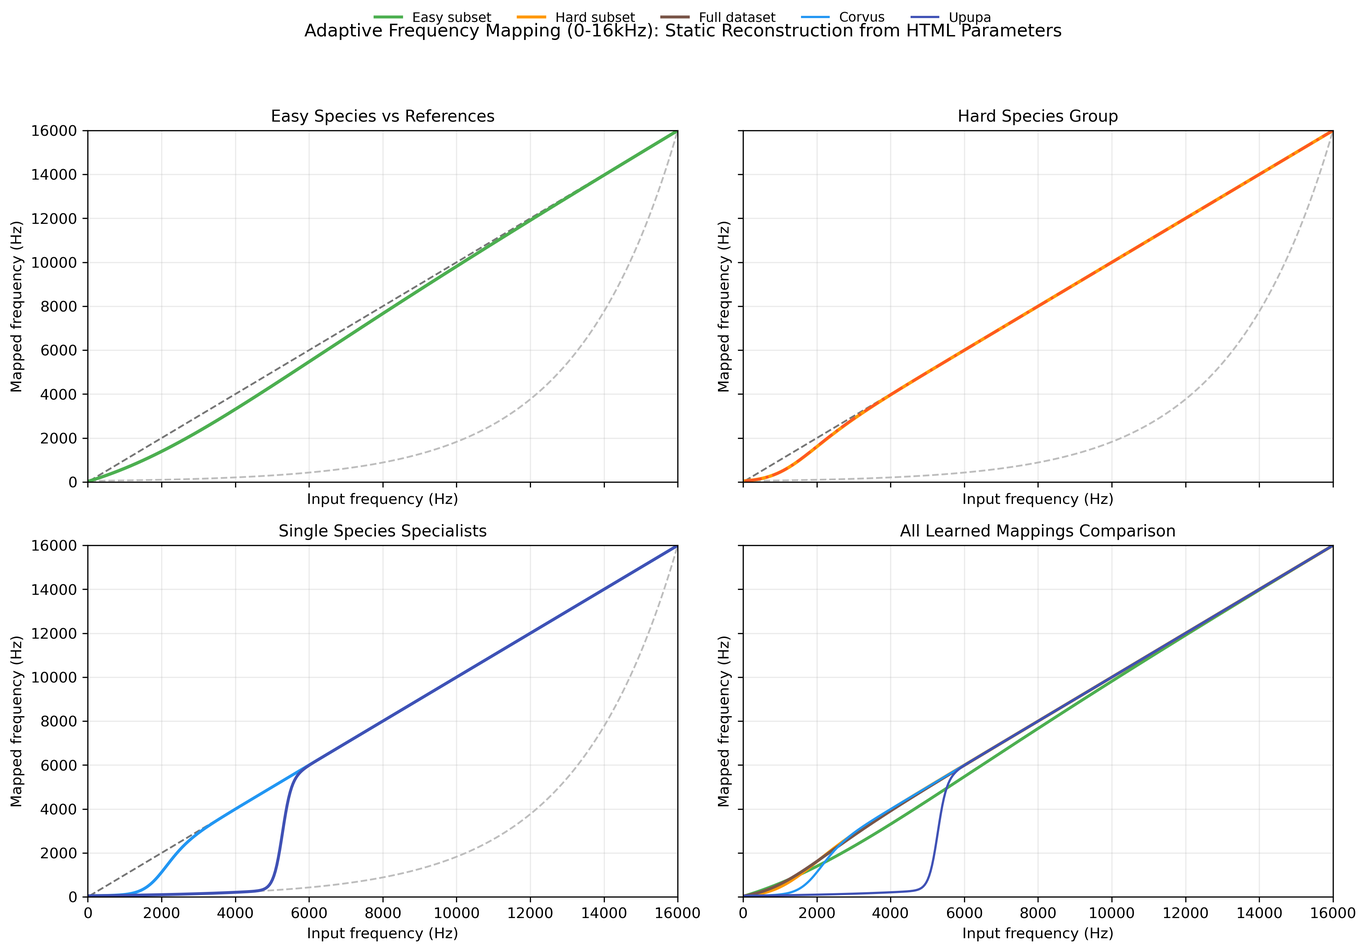
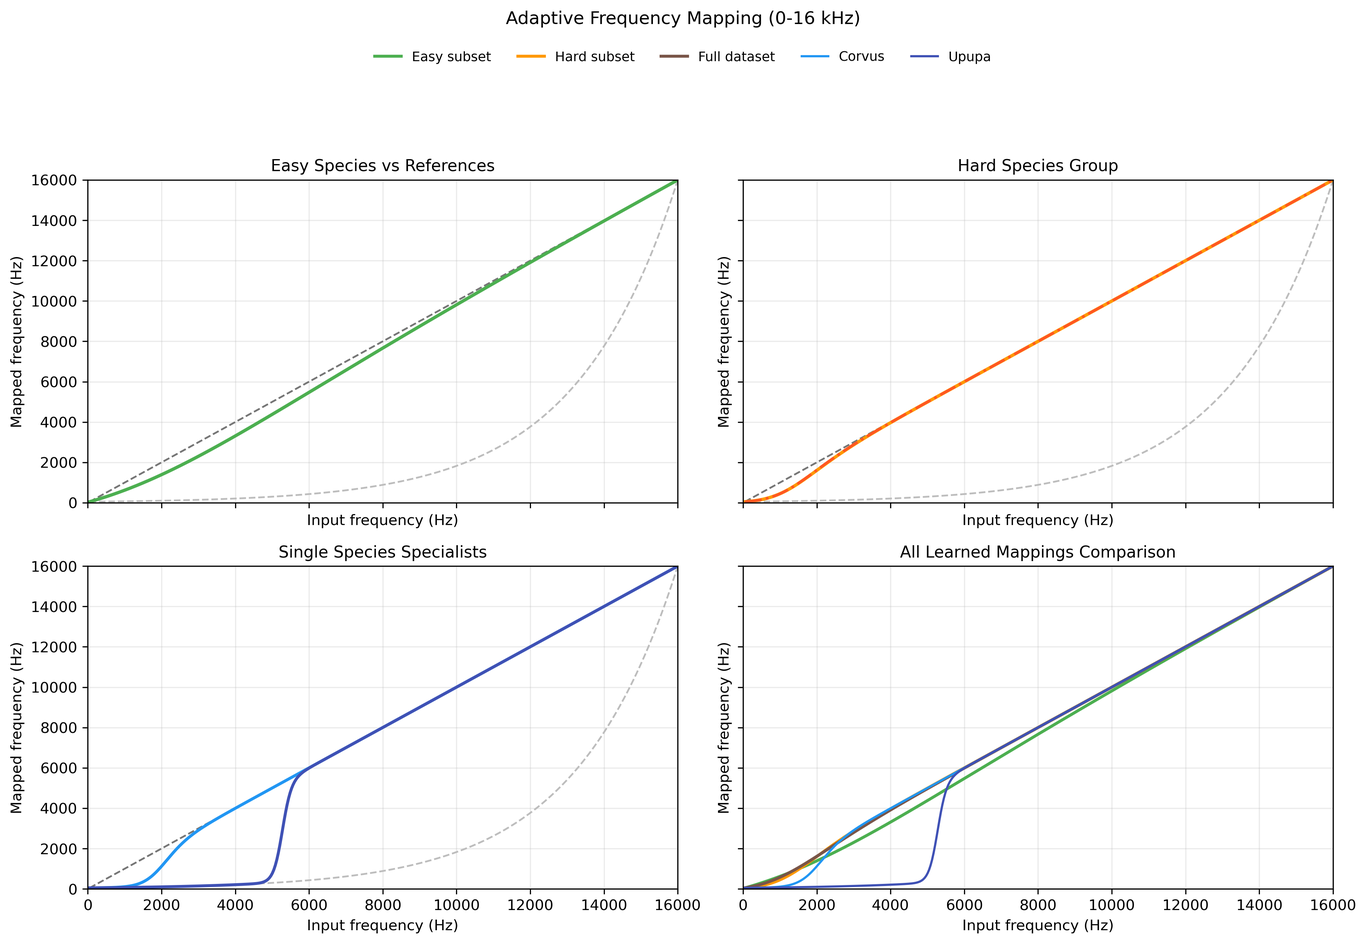
fixes

diff --git a/example.tex b/example.tex
@@ -58,6 +58,8 @@
 
 	A third implication concerns evaluation quality. Existing studies still use heterogeneous benchmarks, hardware settings, and reporting protocols, which makes direct comparison difficult \cite{abadade2023tinymlsurvey}. Therefore, this thesis adopts a measurement-oriented approach: algorithmic performance is discussed together with on-device behavior, and design decisions are justified by their net effect on deployment viability rather than by isolated model-level gains.
 	\subsection{Compression and Optimization Techniques}
+	This subsection provides background concepts for TinyML-oriented model optimization. Detailed implementation choices are discussed later only for the techniques that are effectively used in the proposed pipeline.
+
 	\subsubsection{Quantization}
 	Quantization maps floating-point tensors to lower-precision numerical formats, typically integers, to reduce model memory and improve inference efficiency on hardware that provides optimized integer kernels. In an affine uniform quantizer, a floating-point value \(x\) is mapped to an integer \(q\) through
 	\begin{equation}
@@ -134,7 +136,18 @@
 		\item to validate the system with both offline metrics and on-device measurements, including latency, memory, and energy-oriented analyses.
 	\end{enumerate}
 
+	Methodologically, the thesis adopts a system--algorithm co-design perspective: front-end design, compact architecture, training objective, and deployment constraints are optimized jointly rather than in isolation.
+
 	Scope is intentionally operational. The target problem is closed-set classification with an explicit ``no bird'' class, within species pools relevant to realistic monitoring deployments. This thesis does not aim to replace globally scoped cloud systems; instead, it focuses on robust local specialization and edge-executable inference under strict resource budgets.
+
+	\subsection{Contributions}
+	The main contributions of this thesis are:
+	\begin{enumerate}
+		\item a semi-learnable filterbank tailored for edge bioacoustic classification;
+		\item a focal-distillation training strategy improving difficult-species recognition;
+		\item a reproducible dataset pipeline with realistic negative-class modeling;
+		\item on-device benchmarking on AudioMoth including energy measurements.
+	\end{enumerate}
 
 	\subsection{Evaluation Protocol and Validity Considerations}
 	Evaluation follows a class-aware and deployment-aware protocol. Alongside accuracy, the analysis uses weighted \(F1\), row-normalized confusion matrices, and confusion-pair inspection to characterize hard species interactions. At decision level, threshold effects are treated explicitly because precision/recall balance has direct operational consequences in ecological monitoring \cite{perezgranados2023birdnet,stowell2019birdaudiodetection}.
@@ -204,15 +217,21 @@
 	The constrained deployment literature repeatedly converges on the same point: compact architecture design and compression-aware training must be co-optimized, and performance must be assessed with real device metrics, not only with parameter count. Across studies, quantization, pruning, and distillation are the most recurrent techniques for obtaining deployable models under strict memory and power budgets \cite{wuint8quant2020,li2019pruning,hinton2015distilling}. Their practical impact, however, depends strongly on runtime kernels and hardware characteristics, which is why microcontroller-oriented analyses increasingly report latency, power, and energy jointly \cite{tao2022energy}.
 
 	\subsection{Synthesis and Research Gap}
-	The reviewed literature shows a clear progression: from isolated recognition models to integrated ecological monitoring systems that must remain accurate, efficient, and robust under field variability. Existing studies provide strong foundations in three directions: large-scale bird recognition, low-power deployment, and adaptive front-end design. At the same time, a concrete gap remains at their intersection. Many high-accuracy models are too heavy for always-on edge operation; many tiny models lose discriminative power on difficult species groups; many front-end studies are validated outside strict low-power multi-species field scenarios.
+	The reviewed literature shows a clear progression: from isolated recognition models to integrated ecological monitoring systems that must remain accurate, efficient, and robust under field variability. Existing studies provide strong foundations in large-scale bird recognition, low-power deployment, and adaptive front-end design. At the same time, a specific gap remains at their intersection.
 
-	This gap motivates the present contribution: a compact bird classification pipeline that explicitly co-designs representation learning, architecture efficiency, and edge deployment constraints, with special focus on semi-learnable front-end behavior in realistic multi-species monitoring conditions.
+	Large-scale systems such as BirdNET are strong recognition references, but they are not primarily designed as always-on microcontroller pipelines under strict energy budgets. Conversely, many tiny on-device models are energy-efficient but are often validated on simplified class sets or without strong analysis on difficult species confusions. Front-end adaptation studies are also frequently reported without complete deployment-level validation on low-power loggers.
+
+	To the best of our knowledge, practical end-to-end frameworks that jointly combine a semi-learnable front-end, a compact temporal model specialized for local species sets, and direct on-device benchmarking with explicit energy comparison against strong baselines are still limited in bird-monitoring literature. This thesis addresses that gap and positions itself as one of the first practical frameworks for continuous multi-species monitoring on low-power bioacoustic loggers under a unified system-level evaluation protocol.
 	
 	Unlike globally scoped classifiers, the proposed approach is intentionally compatible with specialization on the species set of a specific geographic area. This choice is aligned with real ornithological and environmental monitoring practice, where target taxa, prevalence, and acoustic confounders are strongly site-dependent. By focusing representational capacity on the locally relevant class space, the system can improve practical discrimination in the deployment context instead of spending model budget on species that are not expected in that region \cite{birdnet2021}. The operational impact is concrete. When inference is executed directly on a low-power field device, battery autonomy supports longer unattended deployments \cite{audiomoth2019,tinychirp2024}. This reduces the need for frequent retrieval trips in remote sites and, because first-pass classification is already measurably effective, it also reduces the amount of audio that must be manually re-analyzed by domain experts.
 
 	\chapter{Study and Implementation}
-	This chapter presents the complete technical study behind the proposed system, from the problem definition to the implementation choices and the experimental evidence.
-	\section{Extended ICASSP Study}
+	This chapter describes the methods introduced in this thesis.
+	This chapter operationalizes the system--algorithm co-design claim by treating representation learning, compact modeling, and deployment profiling as one integrated engineering problem.
+	The proposed system combines established building blocks from the literature with original contributions targeted at low-power bioacoustic monitoring. The standard part of the architecture includes STFT-based time-frequency analysis, a compact Matchbox-style convolutional encoder, GRU temporal modeling, and attention pooling. These components are not claimed as novel by themselves; in this thesis they provide a strong, efficient, and reproducible baseline for edge-oriented bird classification.
+
+	Relative to common fixed front-end pipelines discussed in Chapter~1, the first core contribution is the semi-learnable front-end, which preserves an interpretable log--linear prior while adapting frequency allocation to the active species set. A second contribution is the design of a small and specialized model configuration, explicitly optimized for difficult local species subsets instead of generic large-scale taxonomies. A third contribution is the complete deployment path on AudioMoth, including firmware-side integration and on-device latency/energy benchmarking. Finally, the thesis contributes a reproducible experimental pipeline with realistic negative-class modeling and controlled comparisons among fixed, semi-learnable, and fully learnable front-end strategies.
+	\section{System Study and Implementation}
 	\subsection{Problem Definition and Project Scope}
 	The project addresses \emph{multi-class bird sound classification}. Multi-class classification means that, given one input clip \(x\), the model must select exactly one label among \(C\) possible classes. In this work, the classes are bird species plus one additional negative class representing the absence of bird vocalizations. If \(p(c \mid x)\) denotes the predicted probability for class \(c\), the decision is made by selecting the class associated with the highest probability.
 
@@ -447,16 +466,24 @@
 	In practical terms, this stage compresses a long temporal sequence into one discriminative embedding while preserving frame importance through \(\alpha_t\). It is one of the key reasons the architecture remains compact without discarding temporal selectivity.
 
 	\subsubsection{Layer-Wise Tensor Flow in WrenNet}
-	Let \(B\) be batch size, \(L\) waveform length, and \(C\) number of classes. For a \(3\)-second clip at \(32\)~kHz, \(L=96{,}000\). The forward path can be written as
+	Let \(B\) be batch size, \(L\) waveform length in samples, \(F\) number of front-end filters, \(F_c\) number of CNN output channels, \(H_d\) recurrent hidden size, \(T\) number of time frames after STFT, and \(C\) number of classes. For a \(3\)-second clip at \(32\)~kHz, \(L=96{,}000\).
+
+	The forward path is
 	\begin{equation}
-		x \in \mathrm{R}^{B\times L}
-		\rightarrow S \in \mathrm{R}^{B\times F\times T}
-		\rightarrow H \in \mathrm{R}^{B\times F_c\times T}
-		\rightarrow R \in \mathrm{R}^{B\times T\times H_d}
-		\rightarrow c \in \mathrm{R}^{B\times H_d}
-		\rightarrow o \in \mathrm{R}^{B\times C}.
+		\begin{array}{rcll}
+			X &\in& \mathrm{R}^{B\times L} & \mbox{(raw waveform)}\\
+			S &=& \Phi_{\mathrm{FE}}(X) \in \mathrm{R}^{B\times F\times T} & \mbox{(STFT + filterbank)}\\
+			H &=& \Phi_{\mathrm{CNN}}(S) \in \mathrm{R}^{B\times F_c\times T} & \mbox{(Matchbox encoder)}\\
+			R &=& \Phi_{\mathrm{GRU}}\!\left(H^{\top}\right) \in \mathrm{R}^{B\times T\times H_d} & \mbox{(temporal states)}\\
+			c &=& \Phi_{\mathrm{att}}(R) \in \mathrm{R}^{B\times H_d} & \mbox{(attention context)}\\
+			o &=& \Phi_{\mathrm{cls}}(c) \in \mathrm{R}^{B\times C} & \mbox{(logits)}\\
+			p &=& \mathrm{softmax}(o) \in \mathrm{R}^{B\times C} & \mbox{(probabilities).}
+		\end{array}
 	\end{equation}
-	In the compact configuration, \(F=64\), \(F_c=32\), \(H_d=64\). The time length \(T\) is determined by STFT windowing and hop size. This decomposition clarifies that only the final classifier depends directly on \(C\), while front-end, CNN, recurrent, and attention layers remain class-agnostic and therefore reusable across class-set variants.
+
+	Here \(H^{\top}\) indicates the channel-time permutation needed by the GRU input format, from \(B\times F_c\times T\) to \(B\times T\times F_c\). In other words, each symbol in the path represents one tensor after one block: \(X\) raw audio, \(S\) spectral representation, \(H\) convolutional features, \(R\) recurrent sequence, \(c\) pooled embedding, \(o\) class logits, and \(p\) class probabilities.
+
+	In the compact configuration, \(F=64\), \(F_c=32\), \(H_d=64\). This decomposition clarifies that only the final classifier depends directly on \(C\), while front-end, CNN, recurrent, and attention layers remain class-agnostic and therefore reusable across class-set variants.
 
 	\subsubsection{Concrete Instantiation Used in the Main Experiments}
 	The concrete student used in the main distilled experiments is built around the combined log--linear front-end with trainable \(b\) and \(w\), \(64\) spectral filters, MatchboxNetSkip with \(32\) base channels, single-direction GRU with hidden size \(64\), scalar temporal attention, and linear classification head. This design keeps representational capacity where it most affects difficult bioacoustic boundaries, while avoiding heavy recurrent stacks or high-channel convolutional expansions.
@@ -557,12 +584,12 @@
 
 	In practical terms, the learned breakpoint can move away from initialization toward lower-frequency emphasis when this improves class separation for the active species set. This behavior is consistent with the acoustic structure of many bird calls, where relevant cues often concentrate in specific frequency bands rather than being uniformly distributed over the entire spectrum. The transition-width parameter complements this mechanism by controlling how sharp or smooth the log-linear change is. Together, these two parameters provide controlled flexibility with negligible model-size overhead.
 
-	To make this interpretation auditable, Figure~\ref{fig:learned_frequency_mappings_16khz} provides a static reconstruction of the interactive ``Learned Frequency Mappings'' report. The plot compares reference mappings and learned mappings derived from the recorded \((b,w)\) values of representative runs.
+	To make this interpretation auditable, Figure~\ref{fig:learned_frequency_mappings_16khz} reports the learned frequency mappings for representative runs. The plot compares reference mappings and learned mappings derived from the recorded \((b,w)\) values.
 
 	\begin{figure}[t]
 		\centering
 		\includegraphics[width=0.96\textwidth]{images/learned_frequency_mappings_16khz.png}
-		\caption{Reconstructed learned frequency mappings from run-level breakpoint and transition-width values (\(0\)--\(16\) kHz). Curves are generated from the same adaptive mapping equations used in the interactive HTML report.}
+		\caption{Learned frequency mappings from run-level breakpoint and transition-width values (\(0\)--\(16\) kHz). Curves are generated with the adaptive mapping equations used by the proposed front-end.}
 		\label{fig:learned_frequency_mappings_16khz}
 	\end{figure}
 
@@ -601,6 +628,29 @@
 	\begin{table}[t]
 		\centering
 		\small
+		\caption{Key results summary across classification quality and deployment efficiency.}
+		\label{tab:key_results_summary}
+		\begin{tabular}{|l|c|c|c|c|}
+			\hline
+			Setting & Test Acc (\%) & Parameters & Energy/inf. [J] & Latency/inf. [s] \\
+			\hline
+			Easy subset, semi-learnable \(8(+1)\) & 90.76 & 57,546 & -- & -- \\
+			Hard subset, semi-learnable \(13(+1)\) & 77.47 & 57,546 & -- & -- \\
+			Full dataset, semi-learnable \(70(+1)\) & 66.51 & 57,546 & -- & -- \\
+			Full dataset, larger model \(70(+1)\) & 70.14 & 136,906 & -- & -- \\
+			AudioMoth deployed student (3 s window) & 87.22\(^\ast\) & \(\sim57\)k & 0.0771 & 1.692 \\
+			BirdNET benchmark on Raspberry Pi 3 B+ & -- & -- & 2.79 & 0.978 \\
+			\hline
+		\end{tabular}
+	\end{table}
+
+	\noindent\(^\ast\)Accuracy reported for the corresponding compact student configuration on the controlled \(8(+1)\) benchmark.
+
+	This summary makes the practical positioning explicit. BirdNET remains a strong recognition reference, while the deployment comparison shows that the proposed low-power configuration operates at substantially lower energy cost per decision in continuous monitoring mode, well above the \(16\times\) reference threshold and reaching \(36.2\times\) in the reported benchmark setting.
+
+	\begin{table}[t]
+		\centering
+		\small
 		\caption{Representative classification results across configurations.}
 		\label{tab:extended_results}
 		\begin{tabular}{|l|c|c|c|c|}
@@ -611,8 +661,8 @@
 			Fully learnable subset & 8(+1) & 70,442 & 83.83 & 83.84 \\
 			Easy species subset & 8(+1) & 57,546 & 90.76 & 90.90 \\
 			Hard species subset & 13(+1) & 57,546 & 77.47 & 77.97 \\
-			Full dataset compact model & 70(+1) & 57,546 & 66.41 & 67.49 \\
-			Full dataset larger model & 70(+1) & 136,906 & 70.13 & 70.81 \\
+			Full dataset compact model & 70(+1) & 57,546 & 66.51 & 67.49 \\
+			Full dataset larger model & 70(+1) & 136,906 & 70.14 & 70.81 \\
 			\hline
 		\end{tabular}
 	\end{table}
@@ -844,7 +894,7 @@
 	\subsubsection{Accuracy-Efficiency Trade-Offs}
 	Deployment-level comparison confirms that efficiency must be evaluated jointly with recognition metrics. The compact student configuration yields a much stronger practical profile than heavy baselines when measured on edge-relevant hardware and fixed 3-second inference windows. In this setting, the key quantity is not only absolute classification quality, but the energy required to obtain each prediction under realistic firmware constraints.
 
-	The detailed benchmarking protocol, raw electrical measurements, and instrumentation figures are reported in Section~\ref{sec:device_benchmarks}. In summary, relative to Raspberry Pi 3B+ student TFLite inference (\(0.1720\)~J per window), the AudioMoth deployment (\(0.0771\)~J) reduces energy per inference by about \(55\%\). Relative to the Raspberry Pi student STFT baseline (\(1.6500\)~J) and the BirdNET baseline (\(2.7900\)~J), the reductions are about \(95.3\%\) and \(97.2\%\), respectively.
+	The detailed benchmarking protocol, raw electrical measurements, and instrumentation figures are reported in Section~\ref{sec:device_benchmarks}. In summary, relative to Raspberry Pi 3B+ student TFLite inference (\(0.1720\)~J per window), the AudioMoth deployment (\(0.0771\)~J) reduces energy per inference by about \(55\%\). Relative to the Raspberry Pi student STFT baseline (\(1.6500\)~J) and the BirdNET baseline (\(2.7900\)~J), the reductions are about \(95.3\%\) and \(97.2\%\), respectively. The BirdNET gap corresponds to a \(36.2\times\) lower energy cost in this setup, i.e., well above the \(16\times\) threshold highlighted in the paper.
 
 \subsection{AudioMoth Deployment}
 \subsubsection{Firmware and Library Integration}
@@ -910,6 +960,27 @@
 		}
 	\end{table}
 
+	\begin{table}[t]
+		\centering
+		\scriptsize
+		\caption{Energy comparison relative to AudioMoth (baseline).}
+		\label{tab:energy_relative_summary}
+		\resizebox{\textwidth}{!}{%
+		\begin{tabular}{|l|c|c|c|}
+			\hline
+			Reference system & Energy/inf. [J] & Ratio \(E_{\mathrm{ref}}/E_{\mathrm{AM}}\) & Saving with AudioMoth [\%] \\
+			\hline
+			AudioMoth (baseline) & 0.0771 & \(1.00\times\) & -- \\
+			Student TFLite (RPI3 B+) & 0.1720 & \(2.23\times\) & \(55.2\%\) \\
+			Student STFT (RPI3 B+) & 1.6500 & \(21.4\times\) & \(95.3\%\) \\
+			BirdNET (RPI3 B+) & 2.7900 & \(36.2\times\) & \(97.2\%\) \\
+			\hline
+		\end{tabular}
+		}
+	\end{table}
+
+	Here, \(E_{\mathrm{ref}}/E_{\mathrm{AM}}>1\) means the reference consumes more energy than AudioMoth for one inference window. The saving column is computed as \(100\cdot\left(1-\frac{E_{\mathrm{AM}}}{E_{\mathrm{ref}}}\right)\), i.e., the percentage energy reduction obtained by using AudioMoth instead of the reference system.
+
 	\begin{figure}[t]
 		\centering
 		\includegraphics[width=0.82\textwidth]{images/oscilloscope.jpg}
@@ -926,7 +997,7 @@
 
 	Power and energy benchmarking follows the instrumentation strategy shown in Figures~\ref{fig:oscilloscope_energy_setup} and \ref{fig:measurement_example_setup}. The key metric is energy per inference window, because it directly determines battery lifetime in always-on monitoring. Results in Table~\ref{tab:energy_benchmark} show that the embedded pipeline reaches a substantially lower energy operating point than heavier baselines, even when absolute latency is higher.
 
-	The measured values show a clear scaling pattern. Relative to Raspberry Pi 3B+ student TFLite inference (\(0.1720\)~J per window), the AudioMoth deployment (\(0.0771\)~J) reduces energy per inference by about \(55\%\). Relative to the Raspberry Pi student STFT baseline (\(1.6500\)~J), the reduction is about \(95.3\%\), and relative to the BirdNET baseline (\(2.7900\)~J) it is about \(97.2\%\). In other words, in the tested configuration the microcontroller pipeline operates at approximately \(2.23\times\), \(21.4\times\), and \(36.2\times\) lower energy cost per decision than those three references, respectively.
+	The measured values show a clear scaling pattern. Relative to Raspberry Pi 3B+ student TFLite inference (\(0.1720\)~J per window), the AudioMoth deployment (\(0.0771\)~J) reduces energy per inference by about \(55\%\). Relative to the Raspberry Pi student STFT baseline (\(1.6500\)~J), the reduction is about \(95.3\%\), and relative to the BirdNET baseline (\(2.7900\)~J) it is about \(97.2\%\). In other words, in the tested configuration the microcontroller pipeline operates at approximately \(2.23\times\), \(21.4\times\), and \(36.2\times\) lower energy cost per decision than those three references, respectively. For the BirdNET comparison, this is well above the \(16\times\) paper-level threshold.
 
 	This behavior defines the practical deployment trade-off: the microcontroller profile accepts slower per-window inference in exchange for dramatically reduced average power. AudioMoth inference time per 3-second window is longer (\(1.692\)~s) than Raspberry Pi execution, but average power is much lower (\(0.0456\)~W versus \(\sim2.7\)--\(2.84\)~W). For long-horizon field monitoring, this trade is favorable because maintenance interval and autonomy dominate operational cost.
 
@@ -944,9 +1015,14 @@
 
 	Across experiments, the semi-learnable combined log--linear front-end consistently provides the best trade-off between flexibility and stability. It outperforms fixed mel and linear-triangular mappings in controlled comparisons, and it also outperforms a fully learnable front-end despite using a far more constrained parameterization. This result is central because it shows that structured adaptability can be more effective than unconstrained flexibility in low-footprint bioacoustic models.
 
-	Results on the full \(70(+1)\)-class setting confirm that the approach scales beyond small toy subsets. While larger models recover additional absolute accuracy, the compact student remains competitive and preserves the deployment-oriented profile required for long-duration acoustic monitoring. The measured efficiency gap versus heavier baselines further supports this direction, with order-of-magnitude reductions in inference energy cost on comparable hardware classes.
+	Results on the full \(70(+1)\)-class setting confirm that the approach scales beyond small toy subsets. While larger models recover additional absolute accuracy, the compact student remains competitive and preserves the deployment-oriented profile required for long-duration acoustic monitoring. The measured efficiency gap versus heavier baselines further supports this direction, with order-of-magnitude reductions in inference energy cost on comparable hardware classes and a BirdNET comparison that remains well above the \(16\times\) reference level.
 
 	Overall, the study supports a clear methodological conclusion: effective low-power bioacoustic classification is obtained through co-design of data pipeline, spectral representation, temporal architecture, and training objective, rather than through isolated optimization of a single component.
+
+	From an operational perspective, the measured energy profile has direct implications for campaign scale. Under continuous 3-second windowing, the deployed system operates at approximately \(0.617\)~Wh/day, whereas the BirdNET reference benchmark is approximately \(22.3\)~Wh/day in the same normalization. Under equal daily energy budget, one BirdNET-level node therefore corresponds to about 36 low-power deployed nodes, with clear impact on battery replacement intervals, storage planning, and number of simultaneously monitored locations.
+
+	\subsection{Limitations}
+	Despite the positive results, four limitations remain explicit. First, the current formulation is closed-set classification with an explicit ``no bird'' class; open-set behavior on unseen taxa is not solved in this work. Second, dataset composition is geographically and acoustically biased by available sources, which may limit transfer without local adaptation. Third, long-tail species with scarce or highly variable recordings remain more fragile than frequent classes. Fourth, inference is single-label per window, so overlapping vocalizations from multiple species are not fully represented and require dedicated multi-label extensions.
 	\section{Future Work}
 	A primary development direction is the \emph{Wren Framework}, currently under active implementation. The objective is to turn the methodology presented in this thesis into a reusable standard workflow that can connect domain experts in biology, bioacoustics, and conservation practice with machine-learning pipelines without requiring advanced ML engineering expertise for every new study.
 

diff --git a/scripts/generate_analysis_assets.py b/scripts/generate_analysis_assets.py
@@ -336,9 +336,17 @@ def generate_frequency_mapping_figure(out_path: Path) -> None:
     setup_axis(ax, "All Learned Mappings Comparison")
 
     handles, labels = axes[1, 1].get_legend_handles_labels()
-    fig.legend(handles, labels, loc="upper center", ncol=5, fontsize=9, frameon=False)
-    fig.suptitle("Adaptive Frequency Mapping (0-16kHz): Static Reconstruction from HTML Parameters", y=0.98)
-    fig.tight_layout(rect=[0, 0, 1, 0.94])
+    fig.suptitle("Adaptive Frequency Mapping (0-16 kHz)", y=0.985)
+    fig.legend(
+        handles,
+        labels,
+        loc="upper center",
+        bbox_to_anchor=(0.5, 0.955),
+        ncol=5,
+        fontsize=9,
+        frameon=False,
+    )
+    fig.tight_layout(rect=[0, 0, 1, 0.88])
 
     out_path.parent.mkdir(parents=True, exist_ok=True)
     fig.savefig(out_path, dpi=300, bbox_inches="tight")
